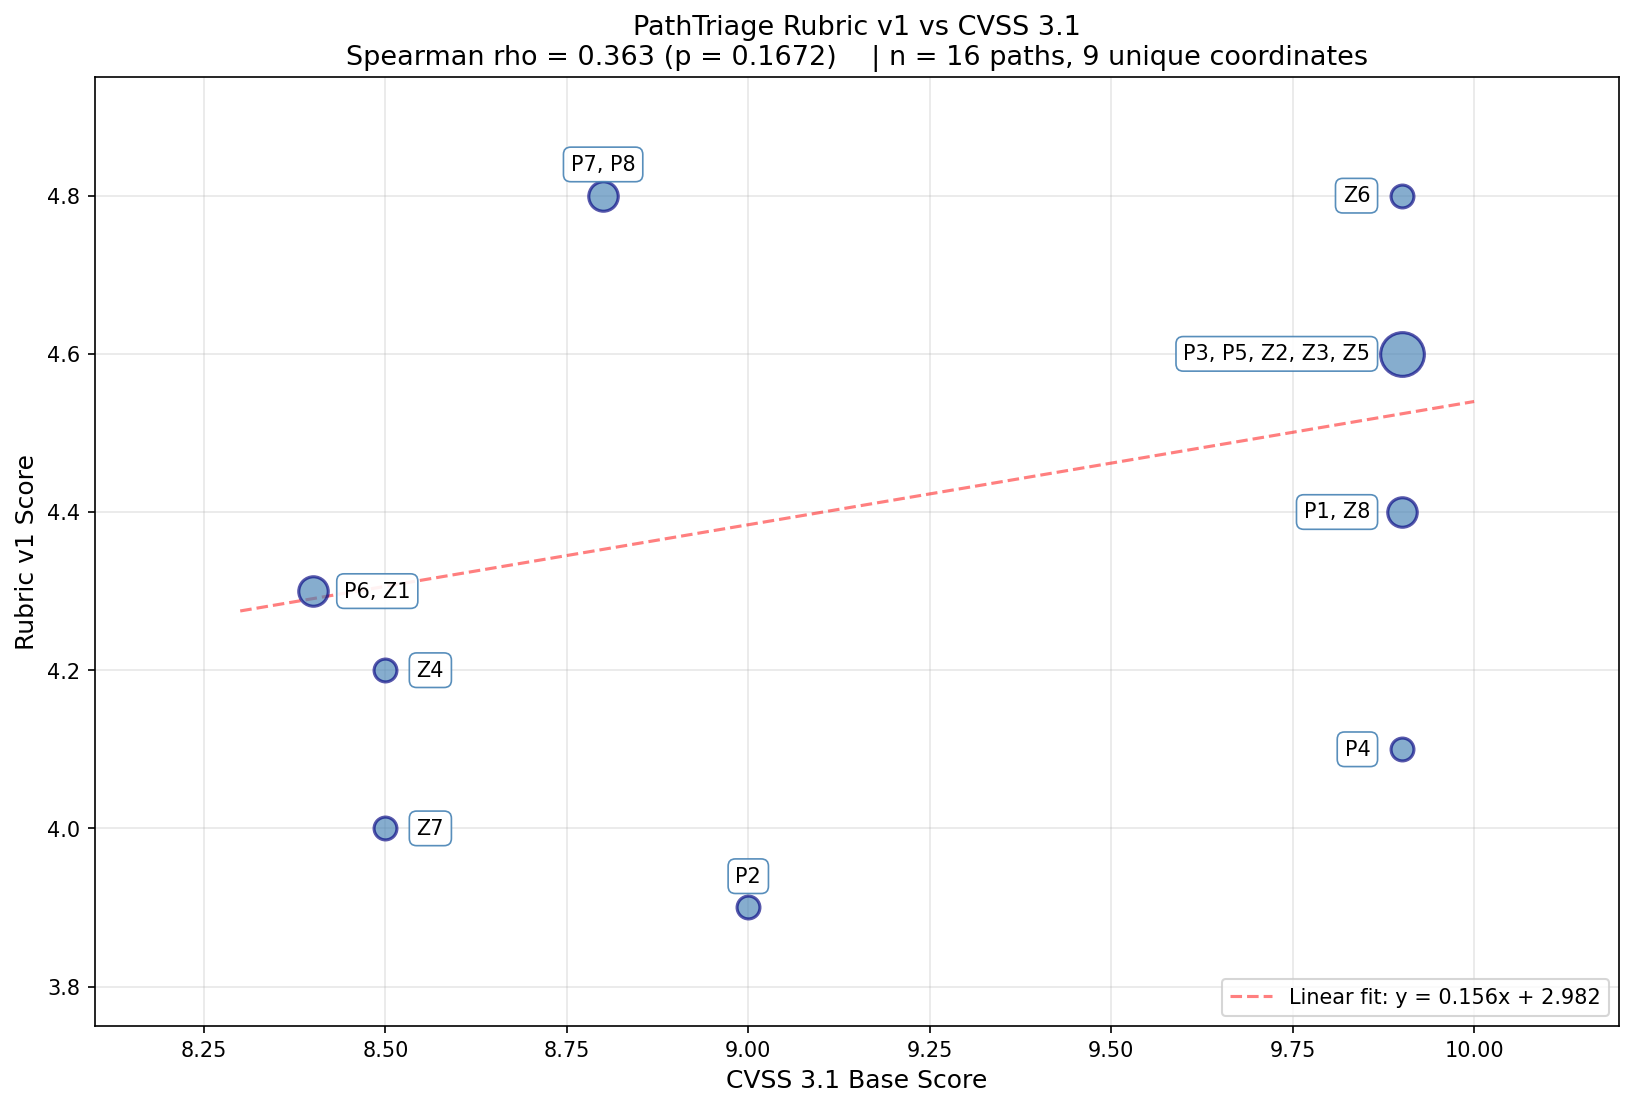
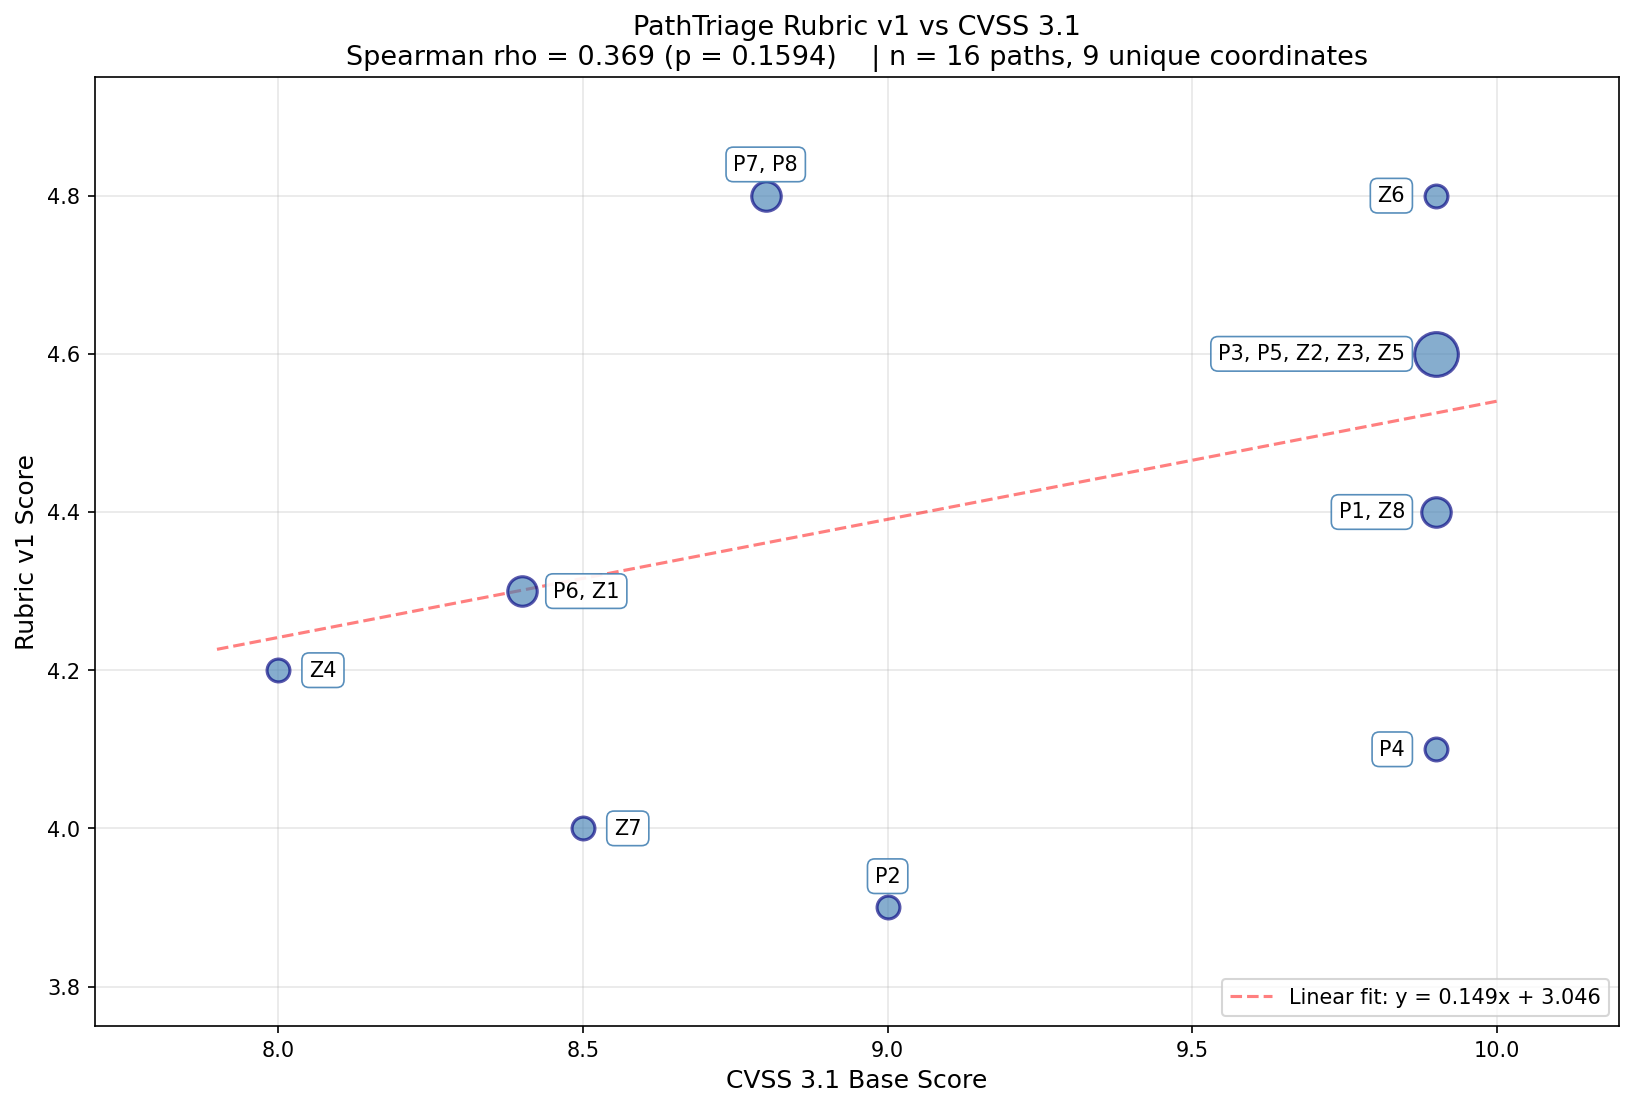
fix: refresh CVSS outputs after the Z4 vector correction
Z4 requires Owner at subscription scope, so PR:H rather than PR:L;
the vector predated that redesign. Base score moves 8.5 to 8.0 and
Spearman rho from 0.363 to 0.369. Neither meets the pre-registered
threshold of 0.70, so no conclusion changes. cvss_results.txt had
been left at the pre-correction values.

Adds measure_fp_incident.py, which derives the primitive-01 false
positive figures from the committed corpus rather than from the
original debugging session: of 298,539 assumed-role events, 205,570
match the unanchored regex, 122,479 are genuine instance-profile
sessions, and 83,091 are substring collisions.

diff --git a/attacks/_defender_output/evaluation/measure_fp_incident.py b/attacks/_defender_output/evaluation/measure_fp_incident.py
@@ -1,0 +1,90 @@
+#!/usr/bin/env python3
+"""
+Measure the figures behind the primitive-01 false-positive incident.
+
+Run from:  attacks/_defender_output/evaluation/
+    python3 measure_fp_incident.py
+
+Reports, for the committed corpus:
+  - how many events carry an AssumedRole session name
+  - how many of those match the ORIGINAL (buggy) regex  i-[0-9a-f]+
+  - how many match the CORRECTED regex  ^i-[0-9a-f]{17}$
+  - the CI/CD subset that caused the incident
+Every number is derived from the corpus, not from memory.
+"""
+import json, re, sys, collections
+from pathlib import Path
+
+CORPUS = Path("corpora/combined_corpus.jsonl")
+if not CORPUS.exists():
+    sys.exit(f"not found: {CORPUS}  (run from the evaluation/ directory)")
+
+BUGGY   = re.compile(r"i-[0-9a-f]+")        # unanchored, matches substrings
+CORRECT = re.compile(r"^i-[0-9a-f]{17}$")   # complete modern EC2 instance IDs
+
+def session_name(ev):
+    """Pull the assumed-role session name out of a CloudTrail-shaped record."""
+    ui = ev.get("userIdentity") or {}
+    if ui.get("type") != "AssumedRole":
+        return None
+    arn = ui.get("arn") or ""
+    if "/" in arn:
+        return arn.rsplit("/", 1)[-1]
+    sc = ui.get("sessionContext") or {}
+    return (sc.get("sessionIssuer") or {}).get("userName")
+
+total = assumed = 0
+buggy_hits = correct_hits = 0
+cicd_buggy = 0
+attack_events = 0
+buggy_sessions, correct_sessions = set(), set()
+sample_buggy = collections.Counter()
+
+with CORPUS.open() as fh:
+    for line in fh:
+        line = line.strip()
+        if not line:
+            continue
+        ev = json.loads(line)
+        total += 1
+        if ev.get("attack_id"):
+            attack_events += 1
+        sn = session_name(ev)
+        if sn is None:
+            continue
+        assumed += 1
+        if BUGGY.search(sn):
+            buggy_hits += 1
+            buggy_sessions.add(sn)
+            if "circleci" in sn:
+                cicd_buggy += 1
+            else:
+                sample_buggy[sn[:34]] += 1
+        if CORRECT.match(sn):
+            correct_hits += 1
+            correct_sessions.add(sn)
+
+W = 42
+def row(label, value):
+    print(f"  {label:<{W}}{value:>10,}")
+
+print(f"\ncorpus: {CORPUS}")
+print("=" * 56)
+row("total events", total)
+row("labelled attack events", attack_events)
+row("events with an AssumedRole session", assumed)
+print()
+print("  session name matched by ...")
+row("  BUGGY  i-[0-9a-f]+   (substring)", buggy_hits)
+row("    of which CI/CD (circleci-deployer)", cicd_buggy)
+row("    distinct sessions", len(buggy_sessions))
+row("  CORRECT ^i-[0-9a-f]{17}$", correct_hits)
+row("    distinct sessions", len(correct_sessions))
+print()
+row("SPURIOUS: buggy minus correct", buggy_hits - correct_hits)
+
+if sample_buggy:
+    print("\n  non-CI/CD session names caught by the buggy regex:")
+    for name, n in sample_buggy.most_common(5):
+        print(f"    {name:<38}{n:>8,}")
+print()

diff --git a/report/rubric_validation/cvss_comparison.py b/report/rubric_validation/cvss_comparison.py
@@ -32,7 +32,7 @@ paths = [
     ('Z1',  2, 2, 5, 4,  8.4),
     ('Z2',  1, 1, 5, 3,  9.9),
     ('Z3',  1, 1, 5, 3,  9.9),
-    ('Z4',  3, 1, 5, 4,  8.5),
+    ('Z4',  3, 1, 5, 4,  8.0),
     ('Z5',  1, 1, 5, 3,  9.9),
     ('Z6',  1, 1, 5, 4,  9.9),
     ('Z7',  3, 2, 5, 4,  8.5),
